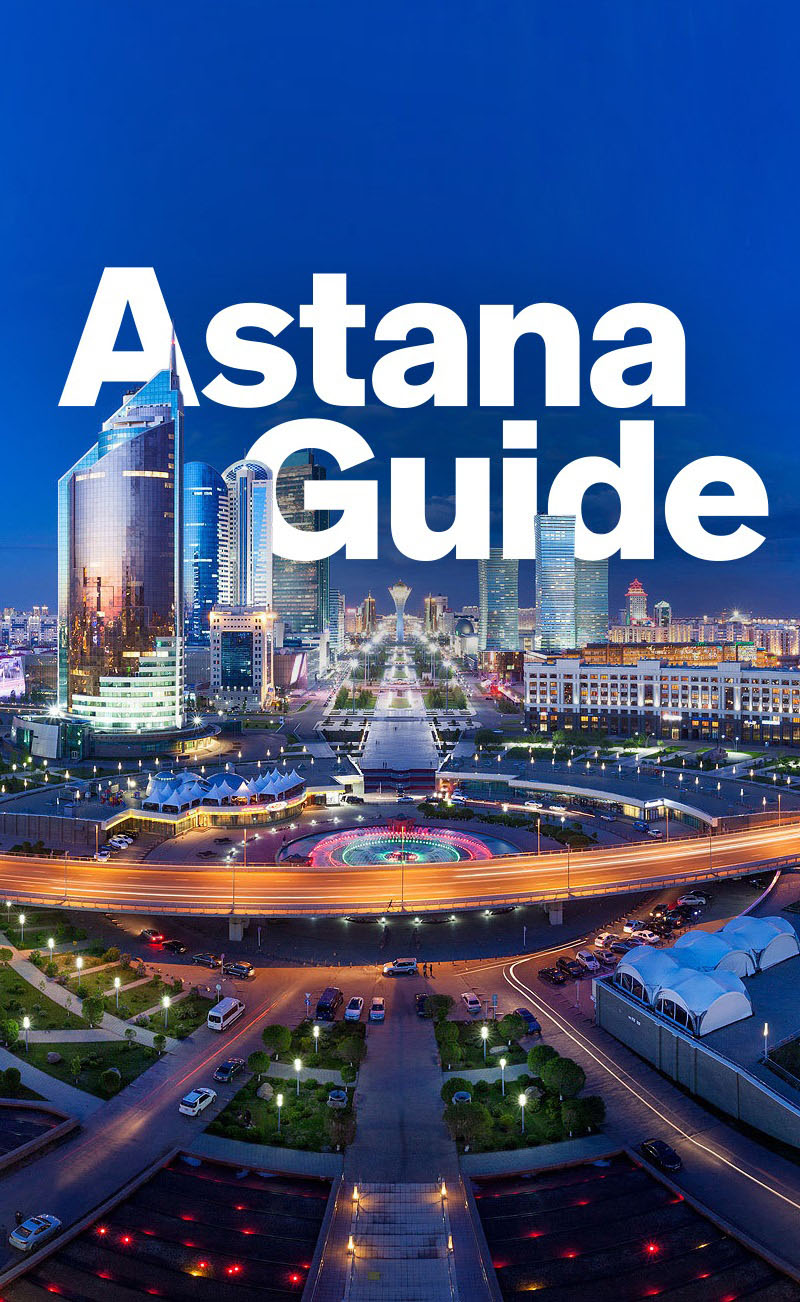
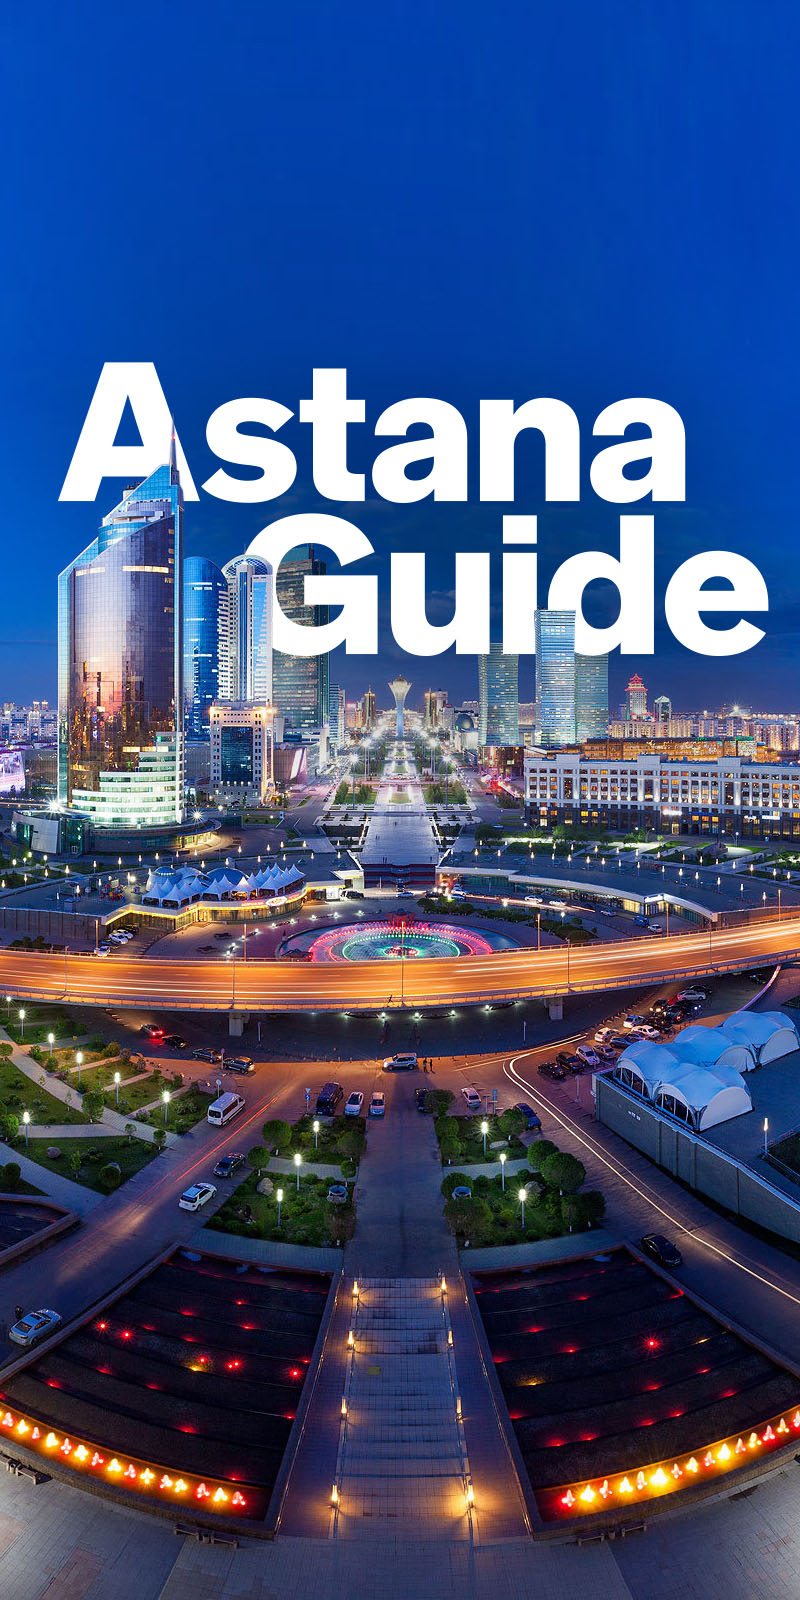
Fixed iphone markup

diff --git a/css/main.css b/css/main.css
@@ -18,8 +18,7 @@ section {
   min-height: calc(800px + 160px);
   background-image: url(../img/main.jpg);
   background-position: center top;
-  background-repeat: no-repeat;/*
-  background-size: cover;*/
+  background-repeat: no-repeat;
 }
 
 #main .flex-container {
@@ -70,6 +69,7 @@ section {
 }
 
 .tours-slider {
+  max-width: 100vw;
   flex-wrap: nowrap;
   transform-style: preserve-3d;
   transform: perspective(900px);
@@ -93,6 +93,7 @@ section {
 }
 
 .tour {
+  max-width: 100vw;
   -webkit-transition: all 0.5s ease-in-out;
   -moz-transition: all 0.5s ease-in-out;
   -ms-transition: all 0.5s ease-in-out;

diff --git a/css/lg.css b/css/lg.css
@@ -1,4 +1,8 @@
 @media screen and (min-width: 1232px) {
+  
+  section {
+    overflow-x: none;
+  }
 
   .guide.-hideToLeft {
     margin-right: -25%;
